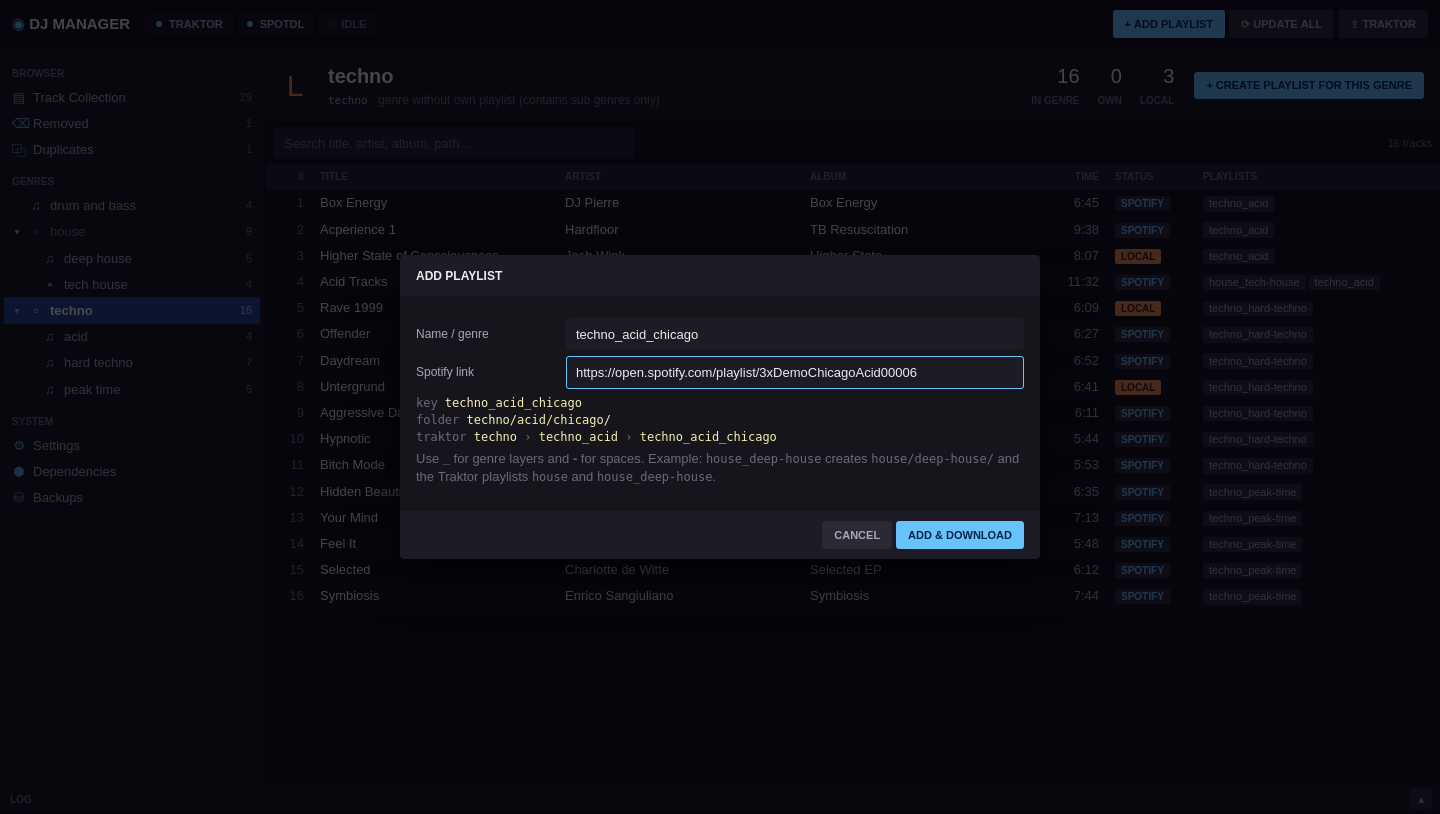
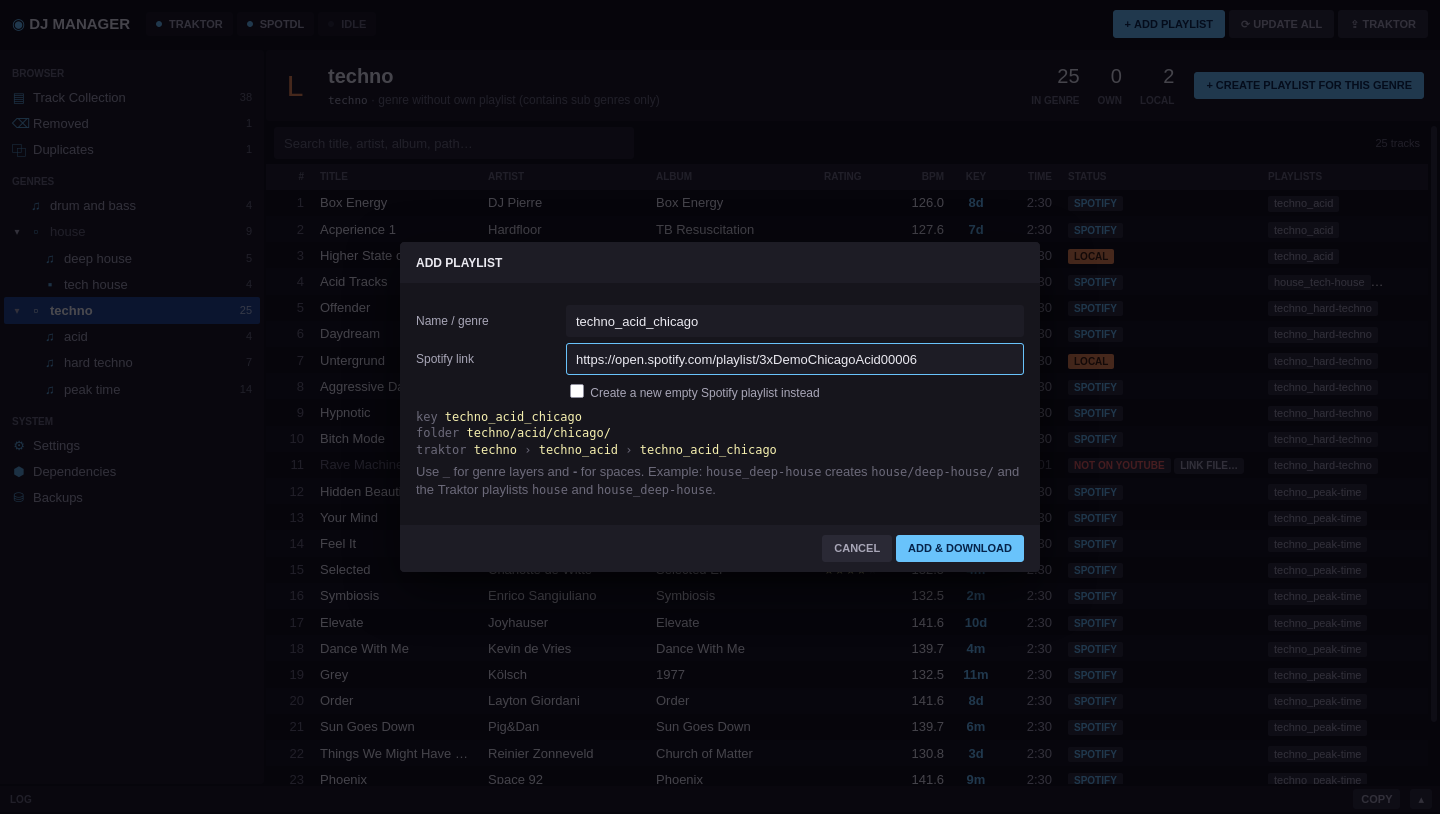
Add a script that retakes the README screenshots
packaging/screenshots.py builds a demo library, runs DJ Manager with the
real analysis and captures every view; part of the release checklist.
Screenshots updated for 0.3.1, including recommendations, map and the
missing-song states.

diff --git a/packaging/screenshots.py b/packaging/screenshots.py
@@ -1,0 +1,277 @@
+"""Retake the README screenshots (docs/screenshots/) with the current version.
+
+    python packaging/screenshots.py --analysis-python PATH [--ffmpeg PATH] [--models DIR]
+
+Builds a demo library of generated, tagged tracks (several genres, a linked playlist with
+LOCAL songs, a blacklist, a removed song, a duplicate, a song not found on YouTube), runs
+DJ Manager from source on it including the real BPM/key, energy/sound and (with --models)
+AI style analysis, and captures every view with headless Firefox.
+
+Needs: firefox, selenium (pip install selenium), ffmpeg, and a Python environment with
+spotdl, yt-dlp and the analysis tools (essentia or librosa, plus onnxruntime for styles),
+e.g. DJ Manager's own dependency environment. Absolute paths in Settings/Dependencies are shown as the default
+Linux locations so no machine-specific paths end up in the README.
+"""
+
+from __future__ import annotations
+
+import argparse
+import json
+import os
+import shutil
+import subprocess
+import sys
+import tempfile
+import time
+import urllib.request
+from datetime import datetime, timedelta, timezone
+from pathlib import Path
+
+ROOT = Path(__file__).resolve().parent.parent
+OUT = ROOT / "docs" / "screenshots"
+PORT = 8899
+BASE = f"http://127.0.0.1:{PORT}/"
+
+# genre folder -> (artist, title, album, bpm, character); character shapes the sound
+LIBRARY = {
+    "techno/hard-techno": [("I Hate Models", "Daydream", "Daydream EP", 146, "hard"), ("SPFDJ", "Bitch Mode", "Eat Me", 148, "hard"),
+                           ("Dax J", "Offender", "Offender EP", 145, "hard"), ("Klangkuenstler", "Untergrund", "Untergrund", 150, "hard"),
+                           ("Nico Moreno", "Hypnotic", "Hypnotic", 147, "hard"), ("Kobosil", "Aggressive Dancing", "We Grow", 145, "hard"),
+                           ("Alarico", "Pressure", "Pressure EP", 149, "hard")],
+    "techno/peak-time": [("Amelie Lens", "Feel It", "Hypnotized EP", 132, "dark"), ("Charlotte de Witte", "Selected", "Selected EP", 133, "dark"),
+                         ("Adam Beyer", "Your Mind", "Your Mind", 131, "dark"), ("Enrico Sangiuliano", "Symbiosis", "Symbiosis", 132, "dark"),
+                         ("ANNA", "Hidden Beauties", "Hidden Beauties", 133, "dark"), ("Reinier Zonneveld", "Things We Might Have Said", "Church of Matter", 131, "dark"),
+                         ("Kölsch", "Grey", "1977", 132, "dark"), ("T78", "Inertia", "Inertia", 140, "bright"), ("Space 92", "Phoenix", "Phoenix", 141, "bright"),
+                         ("Wehbba", "Straight Lines", "Straight Lines", 140, "bright"), ("Joyhauser", "Elevate", "Elevate", 141, "bright"),
+                         ("Pig&Dan", "Sun Goes Down", "Sun Goes Down", 140, "bright"), ("Layton Giordani", "Order", "Order", 141, "bright"),
+                         ("Kevin de Vries", "Dance With Me", "Dance With Me", 140, "bright")],
+    "house/deep-house": [("Larry Heard", "Can You Feel It", "Can You Feel It", 120, "warm"), ("Moodymann", "Shades of Jae", "Mahogany Brown", 118, "warm"),
+                         ("Kerri Chandler", "Rain", "Rain", 122, "warm"), ("Fred P", "Dimension", "Dimension", 121, "warm"),
+                         ("Mood II Swing", "Closer", "Closer", 123, "warm")],
+    "house/tech-house": [("Fisher", "Losing It", "Losing It", 126, "bright"), ("Michael Bibi", "Different Side", "Different Side", 125, "bright"),
+                         ("Chris Lake", "Turn Off The Lights", "Turn Off The Lights", 126, "bright"), ("Phuture", "Acid Tracks", "Acid Tracks", 124, "warm")],
+    "techno/acid": [("Phuture", "Acid Tracks", "Acid Tracks", 124, "warm"), ("DJ Pierre", "Box Energy", "Box Energy", 126, "warm"),
+                    ("Hardfloor", "Acperience 1", "TB Resuscitation", 128, "warm"), ("Josh Wink", "Higher State of Consciousness", "Higher State", 130, "bright")],
+    "drum-and-bass": [("Goldie", "Inner City Life", "Timeless", 172, "dark"), ("Noisia", "Diplodocus", "Split the Atom", 174, "hard"),
+                      ("Calibre", "Mr Majestic", "Shelflife", 172, "warm"), ("Sub Focus", "Timewarp", "Torus", 174, "bright")],
+}
+
+
+def make_track(ffmpeg: str, path: Path, artist: str, title: str, album: str, bpm: int, kind: str, n: int) -> None:
+    beat = 60 / bpm
+    root = 110 * 2 ** ((n * 5 % 12) / 12)  # a different key per track
+    layers = {  # kick + bass/pad + optional hats; the mix decides energy and brightness
+        "hard": f"0.95*sin(2*PI*50*t)*exp(-22*mod(t,{beat})) + 0.25*sin(2*PI*{root}*t)",
+        "dark": f"0.8*sin(2*PI*48*t)*exp(-28*mod(t,{beat})) + 0.12*sin(2*PI*{root}*t)*(0.6+0.4*sin(2*PI*0.05*t))",
+        "warm": f"0.6*sin(2*PI*55*t)*exp(-30*mod(t,{beat})) + 0.2*sin(2*PI*{root}*t) + 0.12*sin(2*PI*{root * 1.5}*t)",
+        "bright": f"0.85*sin(2*PI*55*t)*exp(-30*mod(t,{beat})) + 0.1*sin(2*PI*{root * 2}*t)",
+    }
+    inputs = ["-f", "lavfi", "-i", f"aevalsrc='{layers[kind]}':d=150"]
+    graph = "[0]volume=0.8"
+    if kind in ("bright", "hard"):
+        inputs += ["-f", "lavfi", "-i", f"anoisesrc=d=150:a=0.5:seed={n}"]
+        graph = (f"[1]highpass=f=7000,volume='if(lt(mod(t\\,{beat / 2})\\,0.03)\\,1\\,0)':eval=frame[h];"
+                 f"[0][h]amix=inputs=2:normalize=0")
+    path.parent.mkdir(parents=True, exist_ok=True)
+    subprocess.run([ffmpeg, "-loglevel", "error", "-y", *inputs, "-filter_complex", graph, "-b:a", "128k",
+                    "-metadata", f"title={title}", "-metadata", f"artist={artist}", "-metadata", f"album={album}",
+                    str(path)], check=True)
+
+
+def post(path: str, data: dict | None = None) -> dict:
+    req = urllib.request.Request(BASE + path.lstrip("/"), data=json.dumps(data or {}).encode(), method="POST",
+                                 headers={"Content-Type": "application/json"})
+    with urllib.request.urlopen(req) as resp:
+        return json.load(resp)
+
+
+def get(path: str) -> dict:
+    with urllib.request.urlopen(BASE + path.lstrip("/")) as resp:
+        return json.load(resp)
+
+
+def start(home: Path, env: dict) -> subprocess.Popen:
+    proc = subprocess.Popen([sys.executable, "-m", "djmanager", "--no-open", "--port", str(PORT)], cwd=ROOT, env=env,
+                            stdout=subprocess.PIPE, stderr=subprocess.STDOUT, text=True)
+    for line in proc.stdout:  # type: ignore[union-attr]
+        if "running at" in line:
+            return proc
+    raise RuntimeError("DJ Manager did not start")
+
+
+def wait_for_analysis(timeout: int = 900) -> None:
+    end = time.time() + timeout
+    while time.time() < end:
+        a = get("/api/state")["analysis"]
+        if not a["job"] and a.get("pending_auto", a["pending"]) == 0:
+            return
+        time.sleep(2)
+    raise TimeoutError("analysis did not finish")
+
+
+def edit_library(music: Path) -> None:
+    """Things the demo cannot produce without Spotify: links, LOCAL songs, blacklist, removed, not on YouTube."""
+    path = music / ".djmanager" / "library.json"
+    lib = json.loads(path.read_text())
+    tracks = {t["id"]: t for t in lib["tracks"]}
+    pls = {p["key"]: p for p in lib["playlists"]}
+    now = datetime.now(timezone.utc).replace(microsecond=0)
+    n = iter(range(1000))
+    sid = lambda: f"3xDemo{next(n):016d}"  # noqa: E731
+    for key, local in (("techno_hard-techno", {"Untergrund"}), ("techno_peak-time", set()), ("techno_acid", {"Higher State of Consciousness"}),
+                       ("house_deep-house", set()), ("drum-and-bass", set())):
+        pl = pls[key]
+        pl["spotify_url"] = f"https://open.spotify.com/playlist/{sid()}"
+        pl["last_synced"] = (now - timedelta(minutes=14)).isoformat()
+        for tid in pl["members"]:
+            tracks[tid]["spotify_id"] = tracks[tid]["spotify_id"] or sid()
+            pl["members"][tid] = "local" if tracks[tid]["title"] in local else "spotify"
+    hard = pls["techno_hard-techno"]
+    pressure = next(t for t in tracks.values() if t["title"] == "Pressure")
+    del hard["members"][pressure["id"]]  # removed by the user -> blacklist + "removed"
+    hard["blacklist"] = {pressure["spotify_id"]: {"title": "Pressure", "artists": ["Alarico"], "added_at": (now - timedelta(days=2)).isoformat()},
+                         sid(): {"title": "Gabber Wonderland", "artists": ["Some Artist"], "added_at": (now - timedelta(days=9)).isoformat()}}
+    ghost = {"id": "demo-not-on-youtube", "path": "", "title": "Rave Machine (Bootleg)", "artists": ["Unknown Producer"],
+             "album": "", "duration": 361.0, "spotify_id": sid(), "download_status": "unavailable",
+             "download_error": "not found on YouTube / YouTube Music"}
+    lib["tracks"].append(ghost)
+    hard["members"][ghost["id"]] = "spotify"
+    for t in lib["tracks"]:  # a few ratings, as Traktor would have written them
+        if t["title"] in ("Daydream", "Offender", "Feel It", "Rain", "Inner City Life", "Selected"):
+            t["rating"] = 5 if t["title"] in ("Daydream", "Rain") else 4
+    path.write_text(json.dumps(lib, indent=1))
+
+
+def capture(out: Path) -> None:
+    from selenium import webdriver
+    from selenium.webdriver.common.action_chains import ActionChains
+    from selenium.webdriver.common.by import By
+
+    o = webdriver.FirefoxOptions()
+    o.add_argument("--headless")
+    o.add_argument("--width=1440")
+    o.add_argument("--height=900")
+    d = webdriver.Firefox(options=o)
+    ev = lambda js: d.execute_script("return window.eval(arguments[0])", js)  # noqa: E731
+    shot = lambda name, wait=1.0: (time.sleep(wait), d.save_screenshot(str(out / f"{name}.png")))  # noqa: E731
+    try:
+        d.get(BASE)
+        d.execute_script("localStorage.setItem('djm.console','true'); localStorage.setItem('djm.expanded', JSON.stringify(['techno','house']))")
+        d.get(BASE)
+        time.sleep(2)
+        ev("S.app.spotify.connected = true")  # demo: the dialogs need a connected account
+        ev("setView({type:'genre', key:'techno_hard-techno'})")
+        time.sleep(1.2)
+        d.find_elements(By.CSS_SELECTOR, "tbody tr td:nth-child(2)")[1].click()
+        shot("genre-playlist")
+        ev("S.selected.clear(); setView({type:'genre', key:'techno'})")
+        shot("genre-aggregate")
+        ev("addPlaylist('techno_acid')")
+        time.sleep(0.3)
+        d.find_element(By.ID, "pl-name").send_keys("chicago")
+        d.find_element(By.ID, "pl-url").send_keys("https://open.spotify.com/playlist/3xDemoChicagoAcid00006")
+        ev("document.getElementById('pl-name').dispatchEvent(new Event('input'))")
+        shot("add-playlist", 0.4)
+        ev("document.getElementById('modal-root').innerHTML=''; setView({type:'genre', key:'techno_hard-techno'})")
+        time.sleep(1)
+        ev("showBlacklist('techno_hard-techno')")
+        shot("blacklist", 0.6)
+        ev("document.getElementById('modal-root').innerHTML=''; setView({type:'genre', key:'techno_peak-time'})")
+        time.sleep(1)
+        d.find_element(By.XPATH, "//button[contains(., 'RECOMMEND')]").click()
+        time.sleep(3)
+        shot("recommendations")
+        cards = d.find_elements(By.CSS_SELECTOR, ".rec-card")
+        if cards:
+            cards[0].find_element(By.XPATH, ".//button[contains(., 'SPLIT THESE')]").click()
+            shot("split-dialog", 0.6)
+            ev("document.getElementById('modal-root').innerHTML=''")
+            cards[0].find_element(By.XPATH, ".//button[contains(., 'SHOW ON MAP')]").click()
+        spaces = d.find_elements(By.XPATH, "//button[@data-space='bpm_energy']")
+        if spaces:
+            spaces[0].click()
+            cv = d.find_element(By.ID, "rec-map")
+            d.execute_script("arguments[0].scrollIntoView({block:'center'})", cv)
+            time.sleep(0.4)
+            w, h = cv.size["width"], cv.size["height"]
+            a = ActionChains(d).move_to_element_with_offset(cv, int(w * 0.02), int(-h * 0.48)).click_and_hold()
+            for fx, fy in ((0.49, -0.48), (0.49, 0.0), (0.02, 0.0), (0.02, -0.47)):
+                a.move_to_element_with_offset(cv, int(w * fx), int(h * fy))
+            a.release().perform()
+            shot("recommendations-map", 0.6)
+        ev("setView({type:'duplicates'})")
+        shot("duplicates")
+        ev("setView({type:'settings'})")
+        time.sleep(1)
+        ev("""const i = document.querySelectorAll('.panel input[type=text]'); i[0].value = '~/Music';
+              const n = document.querySelector('[data-k=traktor_nml]'); n.value = '';
+              n.placeholder = 'auto: ~/.wine/drive_c/users/dj/Documents/Native Instruments/Traktor 4.1.0/collection.nml';
+              document.querySelector('[data-k=wine_prefix]').value = '';""")
+        d.execute_script("arguments[0].scrollIntoView()", d.find_element(By.XPATH, "//h2[text()='SPOTIFY']"))
+        shot("settings", 0.4)
+        ev("setView({type:'deps'})")
+        time.sleep(6)
+        ev("""document.querySelectorAll('.panel .mono').forEach(e => {
+                if (e.textContent.includes('/deps/venv')) e.textContent = '~/.local/share/dj-manager/deps/venv';
+                if (e.textContent.endsWith('ffmpeg')) e.textContent = '~/.config/spotdl/ffmpeg'; });""")
+        shot("dependencies", 0.3)
+    finally:
+        d.quit()
+
+
+def main() -> None:
+    parser = argparse.ArgumentParser()
+    parser.add_argument("--analysis-python", required=True, help="Python with essentia or librosa (+ onnxruntime)")
+    parser.add_argument("--ffmpeg", default=shutil.which("ffmpeg") or str(Path.home() / ".config/spotdl/ffmpeg"))
+    parser.add_argument("--models", help="folder with discogs-effnet-bsdynamic-1.onnx/.json (enables AI styles)")
+    parser.add_argument("--keep", action="store_true", help="keep the demo folder")
+    args = parser.parse_args()
+
+    work = Path(tempfile.mkdtemp(prefix="djm-screens-", dir=ROOT / ".bench" if (ROOT / ".bench").is_dir() else None))
+    home, music = work / "home", work / "Music"
+    venv = home / "data" / "deps" / "venv"
+    venv.parent.mkdir(parents=True)
+    # link the whole environment: a lone python symlink would not find its packages
+    venv.symlink_to(Path(args.analysis_python).absolute().parent.parent, target_is_directory=True)
+    if args.models:
+        shutil.copytree(args.models, home / "data" / "deps" / "models", dirs_exist_ok=True)
+    (home / "config").mkdir(parents=True)
+    (home / "config" / "spotify_account.json").write_text(json.dumps(  # shown as connected; never used online
+        {"client_id": "demo", "refresh_token": "demo", "user_id": "dj", "display_name": "DJ Demo", "access_token": "", "expires_at": 0}))
+    n = 0
+    for folder, tracks in LIBRARY.items():
+        for artist, title, album, bpm, kind in tracks:
+            n += 1
+            make_track(args.ffmpeg, music / folder / f"{artist} - {title}.mp3", artist, title, album, bpm, kind, n)
+    print(f"{n} demo tracks in {music}")
+
+    env = {**os.environ, "DJMANAGER_HOME": str(home), "PATH": f"{Path(args.ffmpeg).parent}{os.pathsep}{os.environ['PATH']}"}
+    settings = {"traktor_nml": str(work / "collection.nml"), "traktor_path_mode": "native", "update_on_start": False,
+                "check_app_updates": False, "scan_on_start": False, "analysis_workers": 4, "spotify_client_id": "demo",
+                "rec_enabled": True, "rec_styles": bool(args.models), "styles_auto": bool(args.models)}
+    proc = start(home, env)
+    try:
+        post("/api/settings", settings)
+        post("/api/music-folder", {"path": str(music)})
+        time.sleep(3)
+        wait_for_analysis()
+    finally:
+        proc.terminate()
+        proc.wait(10)
+    edit_library(music)
+    proc = start(home, env)
+    try:
+        post("/api/deps", {"action": "good"})  # a snapshot, so the rollback list is not empty
+        time.sleep(8)
+        OUT.mkdir(parents=True, exist_ok=True)
+        capture(OUT)
+    finally:
+        proc.terminate()
+        proc.wait(10)
+    if not args.keep:
+        shutil.rmtree(work, ignore_errors=True)
+    print("screenshots written to", OUT)
+
+
+if __name__ == "__main__":
+    main()

diff --git a/README.md b/README.md
@@ -4,7 +4,7 @@ Single source of truth for a genre-based music collection. Spotify playlists (vi
 [spotdl](https://github.com/spotDL/spotify-downloader)) are the discovery tool, folders on
 disk store every song once, and Traktor gets generated playlists for every genre layer.
 
-![A genre playlist linked to Spotify, with LOCAL and DELETED tracks](docs/screenshots/genre-playlist.png)
+![A genre playlist linked to Spotify: ratings, BPM and key, LOCAL, NOT ON YOUTUBE and DELETED songs](docs/screenshots/genre-playlist.png)
 
 The spec is in `requirements.txt`.
 
@@ -185,6 +185,10 @@ not always right; grouping by style similarity is more reliable than single labe
 
 ## Screenshots
 
+The screenshots use a demo library of generated test tones, which is why the AI style
+recognition calls some of them "Chiptune" or "Minimal". They are created with
+`packaging/screenshots.py` (see *Building and releasing*).
+
 **Genre with sub genres.** A genre's playlist contains every track of its sub genres. The
 *Playlists* column shows which playlist(s) a track belongs to; each file is still stored
 only once on disk.
@@ -200,6 +204,16 @@ will be created and the Traktor playlists it ends up in.
 Spotify playlist. Unblock them to get them back on the next update.
 
 ![Blacklist of a playlist](docs/screenshots/blacklist.png)
+
+**Split recommendations** (optional). Groups that several signals agree on, with the reasons
+and the songs to keep or drop; the map shows the genre by BPM × energy, sound or style, and
+groups can be lassoed. *Split these songs* pre-fills the split dialog.
+
+![Split recommendations for a genre](docs/screenshots/recommendations.png)
+
+![The recommendations map with a lasso selection](docs/screenshots/recommendations-map.png)
+
+![The split dialog, pre-filled from a recommendation](docs/screenshots/split-dialog.png)
 
 **Duplicates.** Copies of the same song found during the import. DJ Manager uses one file;
 the others are listed so you can delete them.
@@ -270,7 +284,16 @@ python packaging/build.py --repo owner/repo
 `packaging/windows/installer.iss`. Never change its `AppId`: it is what lets new versions
 install over old ones.
 
-**Release:** bump `__version__` in `djmanager/__init__.py`, commit, then
+**Release:** first retake the README screenshots so they show the new version:
+
+```bash
+python packaging/screenshots.py --analysis-python ~/.local/share/dj-manager/deps/venv/bin/python \
+    --models ~/.local/share/dj-manager/deps/models    # models: only needed for the AI styles
+```
+
+It builds a demo library, runs DJ Manager from source with the real analysis and captures
+every view with headless Firefox (needs `selenium` and `firefox`). Check the images, commit
+them, then bump `__version__` in `djmanager/__init__.py`, commit, and
 
 ```bash
 git tag v0.2.0 && git push origin main v0.2.0
